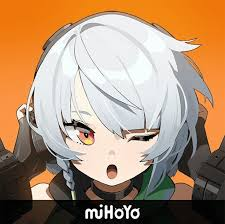
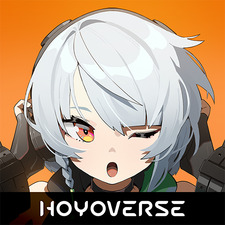
Add files via upload

diff --git a/recommends.html b/recommends.html
@@ -23,10 +23,9 @@
             <a href="https://hoyo.link/cP8hFCAL">原神ダウンロードリンク</a><br>
             <a href="https://hoyo.link/5DbjFDAL">ゼンレスゾーンゼロダウンロードリンク</a>
         </p>
-        <h3>原神とゼンレスゾーンゼロ<br>
-        (ゼンレスゾーンゼロは日本版アイコンがなかったので本国版)</h3>
+        <h3>原神とゼンレスゾーンゼロ<br></h3>
         <a href="https://hoyo.link/cP8hFCAL"><img src="Gesnhin.jpg" alt=""></a>      
-        <a href="https://hoyo.link/5DbjFDAL"></a><img src="ZenZero.jpg" alt=""></a>
+        <a href="https://hoyo.link/5DbjFDAL"><img src="ZenZero.jpg" alt=""></a>
          <h2>Music</h2>
         <p>日本の曲も好きですが(特に米津玄師)、どちらかというと海外の音楽のほうが好きです。
             聞く曲に特にこだわりはないと思ってます。

diff --git a/style.css b/style.css
@@ -4,7 +4,7 @@
     grid-template: 
     "header header header" 150px
     "...... ...... ......" 32px
-    "...... main ......" auto
+    "...... main ........" auto
     "...... ...... ......" 32px
     "footer footer footer"30px
     / 20px auto 20px;
@@ -43,7 +43,7 @@ footer{
     display: flex;
     justify-content: center;
     align-items: center;
-    font-size: 0.9em;   
+    font-size: 0.9em;
 }
 h1{
     border-bottom: 4px solid #dadada;

diff --git a/index.html b/index.html
@@ -28,7 +28,7 @@
         <h2>My pages</h2>
         <div class="da">
             <a href="recommends.html" class="ab">
-            <img src="Recommend.jpg" alt=""><p class="ca"><nobr>おすすめ&好きなもの</nobr></p>
+            <img src="Recommend.jpg"><p class="ca"><nobr>おすすめ&好きなもの</nobr></p>
             </a>
             </div>
         <h2>Developping</h2>
